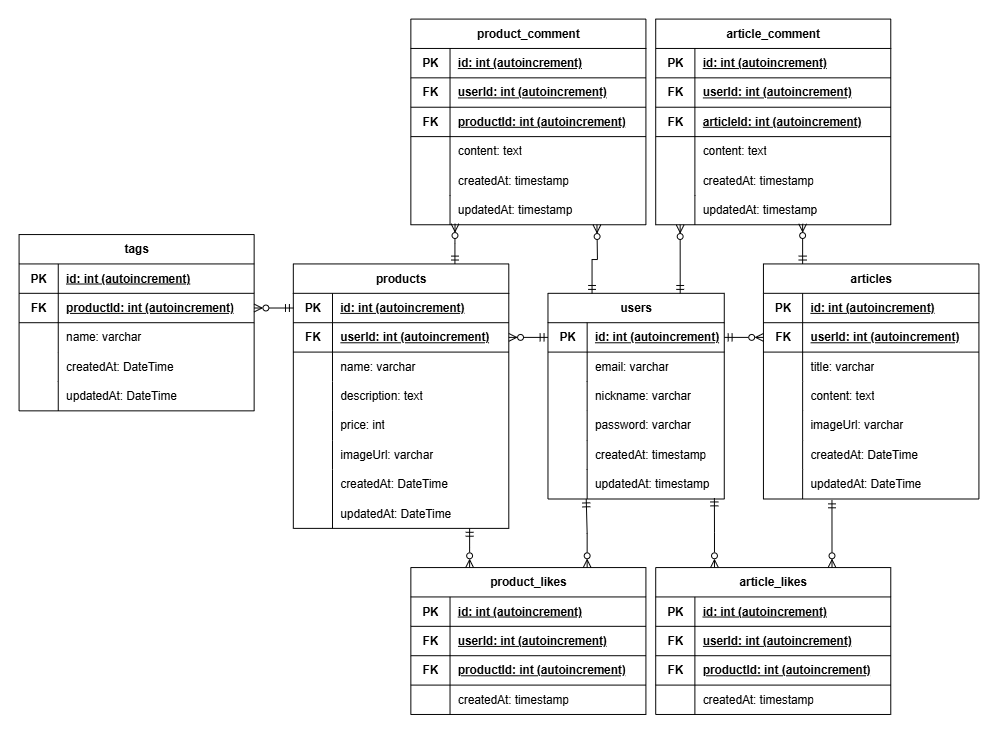
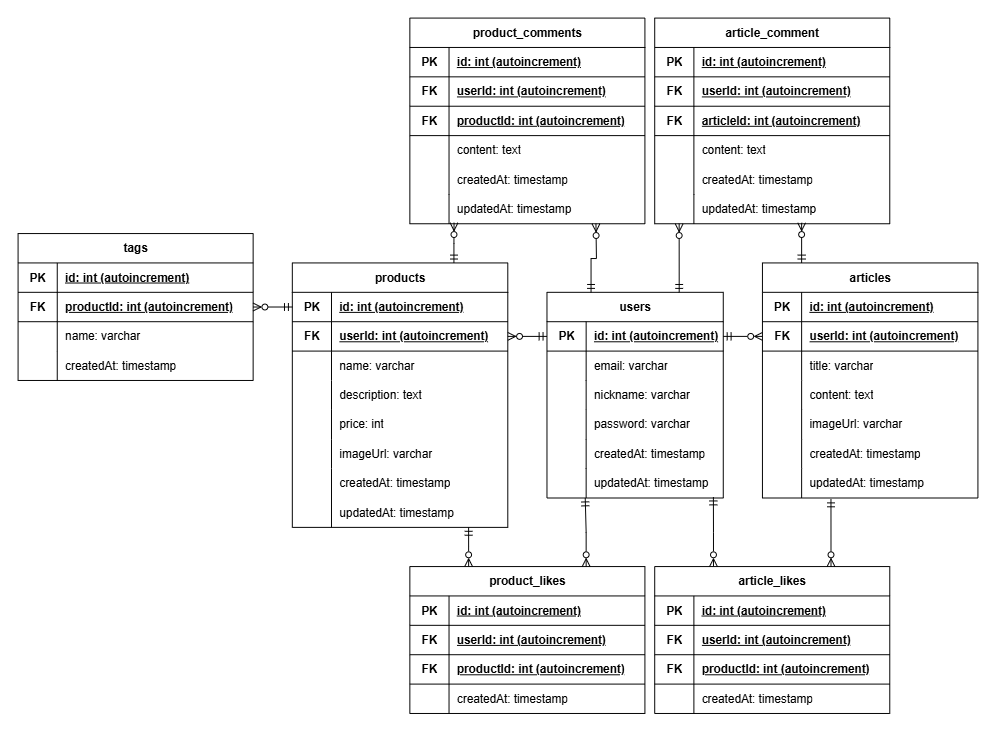
feat: SQL 쿼리 수정 및 README 추가, ER 다이어그램 이미지 업데이트

diff --git a/README.md b/README.md
@@ -1,0 +1,23 @@
+# 요구사항
+
+## SQL 스키마 설계하기
+
+- [x] "판다마켓 디자인"을 바탕으로 필요한 스키마를 설계합니다.
+- [x] SQL CREATE TABLE 문법을 사용해 테이블을 생성하는 코드로 설계를 작성해 주세요.
+- [x] 작성한 코드를 schema.sql로 저장합니다.
+
+## ER 다이어그램 그리기
+
+- [x] 설계한 스키마를 바탕으로 ER 다이어그램을 만들어 주세요.
+- [x] 소프트웨어 도구를 사용합니다. (draw.io 사용했습니다.)
+- [x] 만든 다이어그램은 erd.png와 같이 erd라는 이름으로 이미지 파일을 저장합니다.
+
+## SQL 쿼리 작성하기
+
+- [x] queries.sql 파일을 다운 받아서 총 14개의 SQL 쿼리를 작성해 주세요. 예시로 값이 필요한 경우 적당한 값으로 채워넣어서 작성하면 됩니다.
+
+# 멘토에게
+
+PostgreSQL 문법을 사용했습니다.
+정규화에 따라 produt, article의 comment, like테이블을 각각 분리하여 총 8개의 테이블을 생성했습니다.
+Auth 관련 심화 테이블은 고려하지 않았습니다. 
